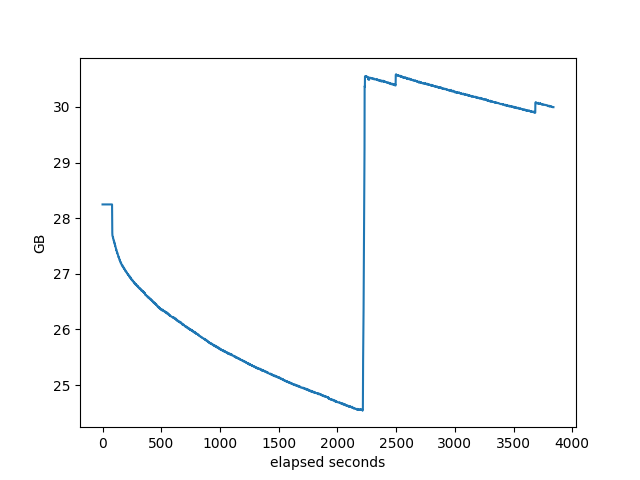
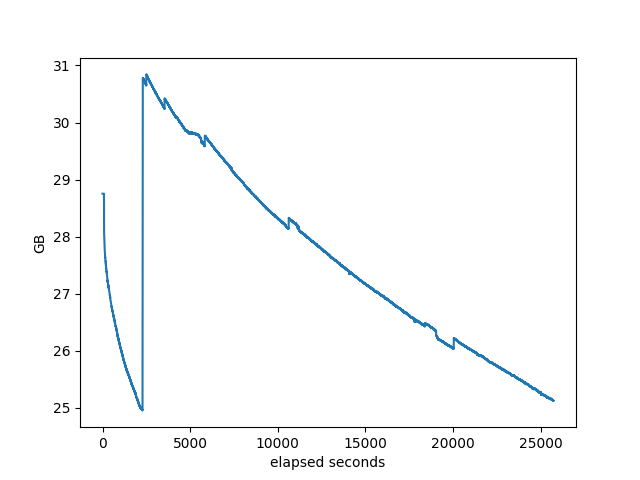
first draft of bgp5 almost done. missing comparison between stacks, waiting for data

diff --git a/_drafts/2021-10-101-bgp-perf5-1000-internet-neighbors.md b/_drafts/2021-10-101-bgp-perf5-1000-internet-neighbors.md
@@ -13,32 +13,44 @@ description: Testing to the limit of how many neighbors these BGP stacks can hav
 - 3rd Post [Comparing Open Source BGP stacks with internet routes](https://elegantnetwork.github.io/posts/comparing-open-source-bgp-internet-routes)
 - 4th Post [Bird on Bird, Episode 4 of BGP Perf testing ](https://elegantnetwork.github.io/posts/bird-on-bird-bgp-perf-episode4)
 
-In the 3rd Post we compared full internet stacks with up to 50 neighbors. What happens if we try to get 1000 Neighbors with full internet routes? Is that realistic? I don't know. I have heard of people with 1M L3VPN routes that want hundreds of neighbors. I didn't think it would be useful, but then I started running experiments and found that I could break the stacks in interesting ways so I figured I should write up a blog post.
-
+In the 3rd Post we compared these open source BGP stacks with neighbors that had full internet stacks with up to 50 neighbors. What happens if we try to get 1000 Neighbors with full internet routes? Is that realistic? I don't know. I have heard of people with 1M L3VPN routes that want hundreds of neighbors. I had not thought this sort of testing would be useful, but then I started running experiments and found that I could break the stacks in interesting ways so I figured I should write up a blog post.
 
 # Test setup
-A major question is if it's reasonable to be able to test 1000 neighbors with full internet tables (800K prefixes). I wasn't sure, but [bgperf](https://github.com/jopietsch/bgperf) has support for playing back mrt files using [bgpdump2] which is very efficient. As always, I'm testing multiple things. The first is if bgperf on the hardware I have available usefully perform this test. The second is how well these stacks do with this many prefixes and neighbors. For the first I'm using different hardware: home computer with 64 GB RAM, EC2 M5.xlarge 24 with 96 cores and 384 GB RAM, and EC2 M5z with 48 cores and 184 GB RAM. The M
+A major question is if it's reasonable to be able to test 1000 neighbors with full internet tables (800K prefixes). I wasn't sure, but [bgperf](https://github.com/jopietsch/bgperf) has support for playing back mrt files using [bgpdump2](https://github.com/rtbrick/bgpdump2) which is very efficient. As always in these blog posts, I'm testing multiple things. The first is if bgperf on the hardware I have available usefully perform this test. The second is how well these stacks do with this many prefixes and neighbors. For the first I'm using different hardware: home computer with 64 GB RAM, EC2 M5.xlarge 24 with 96 cores and 384 GB RAM, and EC2 M5z with 48 cores and 184 GB RAM. I want to be able to take advantage of the cheapest hardware available for any test. It turns out the most important thing is not running out of memory.
+
+# Comparing stacks
 
 The baseline is 100 neighbors with 800K prefixes each.
 
 ![elapsed time](/assets/images/2021-10-bgp-5/bgperf_1M-100n_elapsed.png)
 
-There's only data for FRR for the AMD because I was too lazy to run the other tests.
+I didn't do complete testing for FRRouting and OpenBGPD because I think you can see the general trends.
 
-So this shows several things. I'll talk about the test system first. Each of these 3 platforms performed ok. for BIRD, the AMD is the fastest, then the M5z, then the M5, but not by that much. That makes sense, home CPU have faster single core performance, then the M5z, then the M5. I assume FRR would look the same if I had run all the tests. For RustyBGP, it's the reverse, which is what we'd hope since it can take advantage of more cores
+These results show several things. I'll talk about the test system first. Each of these 3 platforms performed fine. For BIRD, the AMD is the fastest, then the M5z, then the M5, but not by that much. That makes sense, home CPU have higher frequency single core, , then the M5z, then the M5. I assume FRRouting and OpenBGPD would look the same if I had run all the tests. For RustyBGP, it's the reverse, which is what we'd hope since it can take advantage of more cores
 
-Lets' look at the performance of the stacks. First, BIRD, FRRouting and RustyBGP can all handle this load. Second, rustybgp is > 5 times faster. That's pretty amazing. FRR is a little bit faster than BIRD.
+Let's look at the performance of the stacks. First, BIRD, FRRouting and RustyBGP can all handle this load. Second, RustyBGP is > 5 times faster. That's pretty amazing. FRRouting is a little bit faster than BIRD.
+
+![memory usage](/assets/images/2021-10-bgp-5/bgperf_1M-100n_max_mem.png)
+
+OpenBGPD still uses the most memory as we've discussed in the past.
 
 ![min free Mem](/assets/images/2021-10-bgp-5/bgperf_1M-100n_min_free.png)
 
-As long as it doesn't run out of memory, each of these platforms can do reasonable tests. I tried FRR at 200 neighbors and the AMD ran out of memory.
+As long as it doesn't run out of memory, each of these host platforms can do reasonable tests. I tried FRRouting at 200 neighbors and the AMD ran out of memory.
 
-## Detailed Baseline Graphs
- I've added some graphs to show how things go over time with any give test.
+## On the M5z
+Let's see how each of these scales as they go from 50 to 200 neighbors.
+
+
+![elapsed time](/assets/images/2021-10-bgp-5/bgperf_M5z_elapsed.png)
+
+![memory usage](/assets/images/2021-10-bgp-5/bgperf_M5z_max_mem.png)
+## Detailed Baseline Graphs on the M5z
+ I've added some graphs to show how things go over time with any give test. For each individual test, bgperf now produces graphs. I'm not sure of the use of these graphs, but we'll try them out here.
 
 ### Prefixes received at the monitor
 
-FRR
+FRRouting
 
 ![prefixes received at monitor](/assets/images/2021-10-bgp-5/frr_c_bgpdump2__800000_100_mon_received.png)
 
@@ -52,9 +64,9 @@ OpenBGPD
 
 RustyBGP
 
-![prefixes received at monitor](/assets/images/2021-10-bgp-5/rustybgp_bgpdump2_800000_100_mon_received.png)
+![prefixes received at monitor](/assets/images/2021-10-bgp-5/RustyBGP_bgpdump2_800000_100_mon_received.png)
 
-RustyBGP curve looks a lot different. Don't know why.
+RustyBGP curve looks a lot different. Don't know why. On the other hand, RustyBGP completes in 160 seconds, while OpenBGPD completes in 1407s, almost 9 times faster.
 
 
 ### Neighbors that have sent the full table
@@ -73,10 +85,10 @@ OpenBGPD
 
 RusytBGP
 
-![neighbors full received routes](/assets/images/2021-10-bgp-5/rustybgp_bgpdump2_800000_100_neighbors.png)
+![neighbors full received routes](/assets/images/2021-10-bgp-5/RustyBGP_bgpdump2_800000_100_neighbors.png)
 
 
-It's interesting how OpenBGP looks compared to BIRD and FRR. None of it's neighbors don't complete until almost at the end
+It's interesting how OpenBGP looks compared to BIRD and FRR. None of it's neighbors complete until almost at the end, while FRRouting and BIRD start completing much sooner. While the others show either neighbors completing before the monitor gets to 800K, or the monitor gets to 800K before the neighbors, OpenBGPD has them pretty close to in sync.
 
 RustyBGP looks different again. It's amazing that it can receive full routes for some neighbors within about 10 seconds. 
 
@@ -97,9 +109,10 @@ OpenBGPD
 
 RustyBGP
 
-![cpu](/assets/images/2021-10-bgp-5/rustybgp_bgpdump2_800000_100_cpu.png)
+![cpu](/assets/images/2021-10-bgp-5/RustyBGP_bgpdump2_800000_100_cpu.png)
 
 
+These are pretty much as expected since the first three can only take advantage of the single core. Not sure what RustyBGP does at about 60 seconds that makes the utilization go up even more. Oh, wait, if we look below at the memory allocation, that lines up with when RustyBGP dramatically slows down it's allocation of memory. Oh, if we look at the percent idle, that's also when all the bgpdump2s are finished launching. Interesting. I'm not sure what it means, but there is some correlation there.
 
 ### Memory used by target process
 
@@ -117,9 +130,9 @@ OpenBGPD
 
 RustyBGP
 
-![memory used](/assets/images/2021-10-bgp-5/rustybgp_bgpdump2_800000_100_mem_used.png)
+![memory used](/assets/images/2021-10-bgp-5/RustyBGP_bgpdump2_800000_100_mem_used.png)
 
-Each of those looks different, don't know what it means.
+Each of those looks different, don't know what it means, especially in comparing between the stacks. They do allocate differently.
 
 ### % idle of the machine.
 
@@ -137,7 +150,7 @@ OpenBGPD
 
 RustyBGP
 
-![% idle of machine](/assets/images/2021-10-bgp-5/rustybgp_bgpdump2_800000_100_machine_idle.png)
+![% idle of machine](/assets/images/2021-10-bgp-5/RustyBGP_bgpdump2_800000_100_machine_idle.png)
 
 Some things to explain here. Notice the flat line at the beginning of each of these. That's a consequence of the way that bgperf is currently monitoring the host information. So we only have the last data point right before all the testers (bgpdump2) are fully running. It's a bug in the tester. Anyway, it does show, though, that when bgpdump first starts up it uses a lot of CPU resources, but after inital loading it barely uses anything. Even on the host with the least resources (AMD), there is plenty of CPU available on the host for the majority of the test. Except for RustyBGP, which uses most of the CPU.
 
@@ -146,10 +159,7 @@ Some things to explain here. Notice the flat line at the beginning of each of th
 # 1000 neighbors ?
 ## FRR
 
-
-
-At 150 neighbors, FRR does not finish ever. Several problems. Some of the neighbors never send any prefixes successfully and the total prefixes received by the monitor doesn't seem to ever get to the amount required. I ran one test for over 6 hours and it never finished.
-
+At 150 neighbors, FRRouting does not finish ever. Several problems. Some of the neighbors never send any prefixes successfully and the total prefixes received by the monitor doesn't seem to ever get to the amount required. I ran one test for over 6 hours and it never finished.
 
 If we look at the target we can see the total number of connections:
 ```bash
@@ -168,14 +178,15 @@ So that's 40 neighbors that will never successfully send a prefix. I don't know 
 
 This would be better if bgperf tracked the neighbors that have successfully sent any prefixes, but that's going to take more work.
 
+prefixes received at the monitor:
 
 ![prefixes received at monitor](/assets/images/2021-10-bgp-5/frr_c_bgpdump2_800000_150_mon_received.png)
 
-The number of neighbors that the target has received all it's prefixes:
+number of neighbors that the target has received all it's prefixes:
 
 ![neighbors full received routes](/assets/images/2021-10-bgp-5/frr_c_bgpdump2_800000_150_neighbors.png)
 
-The CPU utilization of the target
+CPU utilization of the target:
 
 ![cpu](/assets/images/2021-10-bgp-5/frr_c_bgpdump2_800000_150_cpu.png)
 
@@ -183,61 +194,116 @@ The CPU utilization of the target
 memory used by target
 ![memory used](/assets/images/2021-10-bgp-5/frr_c_bgpdump2_800000_150_mem_used.png)
 
-The % idle of the machine. This shows that there are plenty of CPU resources available.
+% idle of the machine. This shows that there are plenty of CPU resources available.
 
 ![% idle of machine](/assets/images/2021-10-bgp-5/frr_c_bgpdump2_800000_150_machine_idle.png)
 
 I don't see anything interesting in these graphs.
 ## BIRD
-BIRD succeeds at 200 neighbors, and fails at 300.  Well, it gets stuck not incrementing either the prefixes received at the monitor or the number of neighbors completed. I usually have a 120s timeout, but I changed it to one hour. As you can see on the graphs, it got stuck for almost an hour at about 225 neighbors. I don't know what it was doing at that point in time. The total time was 15781s, more than 4 hours. That doesn't really count as success.
+BIRD succeeds at 200 neighbors, and fails at 300.  Well, it gets stuck not incrementing either the prefixes received at the monitor or the number of neighbors completed. I usually have a 120s timeout, but I changed it to one hour. As you can see on the graphs, it got stuck for almost an hour at about 225 neighbors. I don't know what it was doing at that point in time. The total time was 15781s, more than 4 hours. That doesn't really count as success. It gets to about 225 neighbors in less than half that time. 
+
+prefixes received at the monitor:
 
 ![prefixes received at monitor](/assets/images/2021-10-bgp-5/bird_bgpdump2_800000_300_mon_received.png)
 
+number of neighbors that the target has received all it's prefixes:
+
 ![neighbors full received routes](/assets/images/2021-10-bgp-5/bird_bgpdump2_800000_300_neighbors.png)
+
+CPU utilization of the target:
 
 ![cpu](/assets/images/2021-10-bgp-5/bird_bgpdump2_800000_300_cpu.png)
 
+memory used by target
+
 ![memory used](/assets/images/2021-10-bgp-5/bird_bgpdump2_800000_300_mem_used.png)
+
+% idle of the machine.
 
 ![% idle of machine](/assets/images/2021-10-bgp-5/bird_bgpdump2_800000_300_machine_idle.png)
 
 Other than the neighbor graph showing it getting stuck for almost an hour, nothing much interesting going on here.
 
-
 ## BIRD separate table per neighbor
+BIRD in which each neighbor has it's own table cannot even do 100 neighbors. It gets to 88 neighbors and then stops. The CPU utilization drops to 0. Not sure what is going on between BIRD and bgdpdump2.
 
+prefixes received at the monitor:
 
+![prefixes received at monitor](/assets/images/2021-10-bgp-5/bird-no-s_bgpdump2_800000_100_mon_received.png)
+
+number of neighbors that the target has received all it's prefixes:
+
+![neighbors full received routes](/assets/images/2021-10-bgp-5/bird-no-s_bgpdump2_800000_100_neighbors.png)
+
+CPU utilization of the target:
+
+![cpu](/assets/images/2021-10-bgp-5/bird-no-s_bgpdump2_800000_100_cpu.png)
+
+memory used by target
+
+![memory used](/assets/images/2021-10-bgp-5/bird-no-s_bgpdump2_800000_100_mem_used.png)
+
+% idle of the machine.
+
+![% idle of machine](/assets/images/2021-10-bgp-5/bird-no-s_bgpdump2_800000_100_machine_idle.png)
 ## OpenBGPD
+OpenBGPD at 300 finishes, but takes so long that I'm not sure that should really count. Well, I didn't let it finish, it was going to ran out of memory on the machine I was using, it was past my bedtime and I didn't want to get charged for a machine over night.
+
+prefixes received at the monitor:
+
+![prefixes received at monitor](/assets/images/2021-10-bgp-5/openbgp_bgpdump2_800000_300_mon_received.png)
+
+number of neighbors that the target has received all it's prefixes:
+
+![neighbors full received routes](/assets/images/2021-10-bgp-5/openbgp_bgpdump2_800000_300_neighbors.png)
+
+CPU utilization of the target:
+
+![cpu](/assets/images/2021-10-bgp-5/openbgp_bgpdump2_800000_300_cpu.png)
+
+![memory used](/assets/images/2021-10-bgp-5/openbgp_bgpdump2_800000_300_mem_used.png)
+
+memory used by target
+
+![machine free mem](/assets/images/2021-10-bgp-5/openbgp_bgpdump2_800000_300_free_mem.png)
+
+% idle of the machine.
+
+![% idle of machine](/assets/images/2021-10-bgp-5/openbgp_bgpdump2_800000_300_machine_idle.png)
+
+I don't see anything interesting in these other than in comparing to the other stacks, which we did above.
 ## RustyBGP
 
-I successfully tested RustyBGP with 500 neighbors on the M5.xlarge24 which has 96 cores and 384 GB of RAM. More neighbors than that ran into a problem I mentioned in the previous blog post: every second bgperf collects information from the target about how many prefixes have been received by each neighbor. After a while, in some of the tests rustybgp stops responding to that data, which completely freaks out bgperf and it fails. I don't know if the problem is that there isn't enough CPU resources or something else. In other words, if rustyBGP had it's own dedicated resource and bgpdump2 it's own dedicated resources would this break? I can't be sure but I kind of think so since bgpdump2 does it's greatest work at the beginning when it's starting up.
+I successfully tested RustyBGP with 500 neighbors on the M5.24xlarge which has 96 cores and 384 GB of RAM. More neighbors than that ran into a problem I mentioned in the previous blog post: every second bgperf collects information from the target about how many prefixes have been received by each neighbor. After a while, in some of the tests RustyBGP stops responding to that data, which completely freaks out bgperf and it fails. I don't know if the problem is that there isn't enough CPU resources or something else. In other words, if RustyBGP had it's own dedicated resource and bgpdump2 it's own dedicated resources would this break? I can't be sure but I kind of think so since bgpdump2 does it's greatest work at the beginning when it's starting up.
 
 at 500, it finishes in about 1700 seconds, which is not that much longer than the other three took to do 100 neighbors.
 
-monitor 
+prefixes received at the monitor:
 
-![prefixes received at monitor](/assets/images/2021-10-bgp-5/rustybgp_bgpdump2_800000_500_mon_received.png)
+![prefixes received at monitor](/assets/images/2021-10-bgp-5/RustyBGP_bgpdump2_800000_500_mon_received.png)
 
+number of neighbors that the target has received all it's prefixes:
 
-neighbors
-
-![neighbors full received routes](/assets/images/2021-10-bgp-5/rustybgp_bgpdump2_800000_500_neighbors.png)
+![neighbors full received routes](/assets/images/2021-10-bgp-5/RustyBGP_bgpdump2_800000_500_neighbors.png)
 
 
 memory used by target
-![memory used](/assets/images/2021-10-bgp-5/rustybgp_bgpdump2_800000_500_mem_used.png)
+![memory used](/assets/images/2021-10-bgp-5/RustyBGP_bgpdump2_800000_500_mem_used.png)
 
-The % idle of the machine. This shows that there are plenty of CPU resources available.
+The % idle of the machine.
 
-![% idle of machine](/assets/images/2021-10-bgp-5/rustybgp_bgpdump2_800000_500_machine_idle.png)
+![% idle of machine](/assets/images/2021-10-bgp-5/RustyBGP_bgpdump2_800000_500_machine_idle.png)
 
 
 
 # Conclusion
-Possibly, though I didn't get past 500 neighbors. Likely that 1000 neighbors would have needed more memory, and that is available on other EC2 instances. I'm not sure that there are other instances that have more CPU. At some point it would be necessary to figure out mutli-host bgperf.
+Is it reasonable to test 1000 neighbors with full internet routes using bgperf? Possibly, though I didn't get past 500 neighbors. It is likely that 1000 neighbors would have needed more memory, and that is available on other EC2 instances which I'm not sure that there are other instances that have more CPU. At some point it would be necessary to figure out mutli-host bgperf. So I think it would work, but I couldn't prove it here. Each of these host platforms performed fine and there isn't much difference in performance unless you run out of memory. 
 
 However, only RustyBGP can get near that level. And it requires a lot of memory. Both for RustyBGP and for the testers
 
-FRR breaks first, at about 150 neighbors. Next is BIRD at between 200 and 250 neighbors.
+FRRouting breaks first, at about 150 neighbors. Next is BIRD at between 200 and 250 neighbors, let's say 225. OpenBGPD completes at 300 neighbors but it takes so long I don't think it's practical.
 
 We also added new graphs to see what these stacks are doing 
+
+
+How did each of these scale
